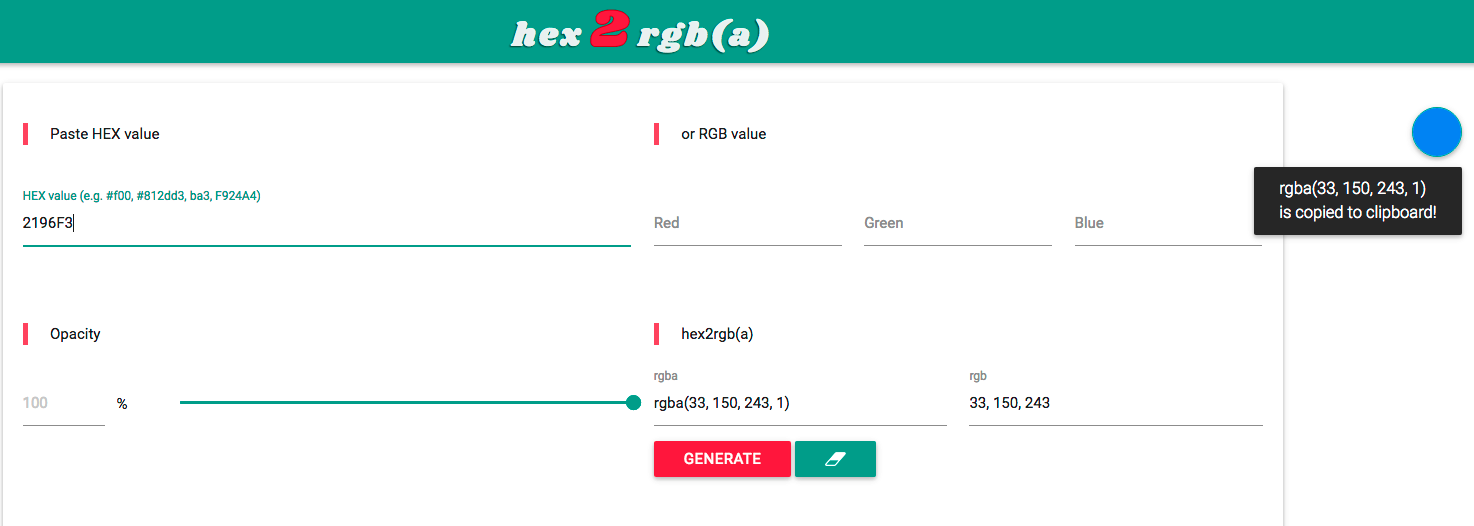
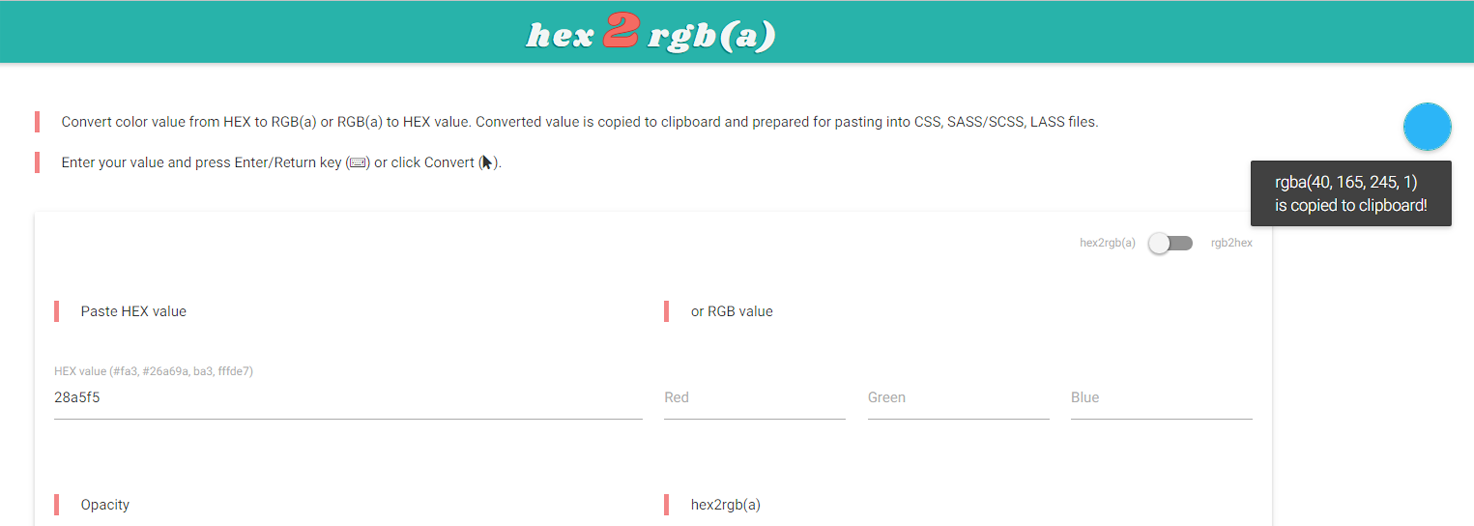
meta

diff --git a/index.html b/index.html
@@ -8,7 +8,18 @@
   <meta content="IE=edge" http-equiv="X-UA-Compatible">
   <meta name="viewport" content="width=device-width, initial-scale=1.0">
   <meta name="keywords" content="hex, rbg, rgba, hex2rgb, github, tgomilar, hex2rgba, converter, hex2rgba converter, hex to rgb converter, hex to rgba converter, online, free">
-  <meta name="description" content="hex2rgb(a) web converter. Auto copies rgba() value to clipboard and displays entered color. Might be useful for CSS devs :)">
+  <meta name="description" content="hex2rgb(a) color converter. Auto copies rgba() value to clipboard and displays entered color. Might be useful for designers, CSS or front-end developers :)">
+  <meta property="twitter:card" content="summary_large_image">
+  <meta name="twitter:image" content="https://tgomilar.github.io/hex2rgb/img/hex2rgb.png">
+  <meta property="og:locale" content="en_GB">
+  <meta property="og:type" content="website">
+  <meta property="og:title" content="hex2rgb(a) color converter">
+  <meta property="og:description"
+        content="Might be useful for designers, CSS or front-end developers. #hex2rgb #colors #web">
+  <meta property="og:url" content="https://tgomilar.github.io/hex2rgb/">
+  <meta property="og:site_name" content="hex2rgb(a) color converter">
+  <meta property="og:image" content="https://tgomilar.github.io/hex2rgb/img/hex2rgb.png">
+  <meta name="google-site-verification" content="TWTDG5sHkQOekIFUa5uWVmi7yO3pJTU7AGMaIPajIHc" />
   <link rel="icon" href="favicon.ico">
   <script src="https://use.fontawesome.com/9576790a31.js"></script>
   <link href="https://fonts.googleapis.com/css?family=Shrikhand" rel="stylesheet">
@@ -27,13 +38,13 @@
 
   <div class="container">
 
-    <div class="row">
+    <div class="row mt-4">
       <div class="col s12 ">
         <blockquote>
-          Let's you convert color value from HEX to RGBA and RGB or RGB to HEX value. Converted value is copied to clipboard and prepared for inclusion in CSS, SASS/SCSS, LASS styles.
+          Convert color value from HEX to RGB(a) or RGB(a) to HEX value. Converted value is copied to clipboard and prepared for pasting into CSS, SASS/SCSS, LASS files.
         </blockquote>
         <blockquote>
-          Enter your value and press Enter/Retyrn key (<i class="fa fa-keyboard-o" aria-hidden="true"></i>) or click Convert (<i class="fa fa-mouse-pointer" aria-hidden="true"></i>).
+          Enter your value and press Enter/Return key (<i class="fa fa-keyboard-o" aria-hidden="true"></i>) or click Convert (<i class="fa fa-mouse-pointer" aria-hidden="true"></i>).
         </blockquote>
       </div>
     </div>

diff --git a/css/style.css b/css/style.css
@@ -6244,4 +6244,6 @@ footer {
   background: transparent;
   border: 1px solid #26a69a; }
 
+.mt-4 {
+  margin-top: 30px; }
 /*# sourceMappingURL=style.css.map */

diff --git a/css/style.scss b/css/style.scss
@@ -154,3 +154,6 @@ footer {
   background: transparent;
   border: 1px solid $base;
 }
+.mt-4 {
+  margin-top: 30px;
+}
